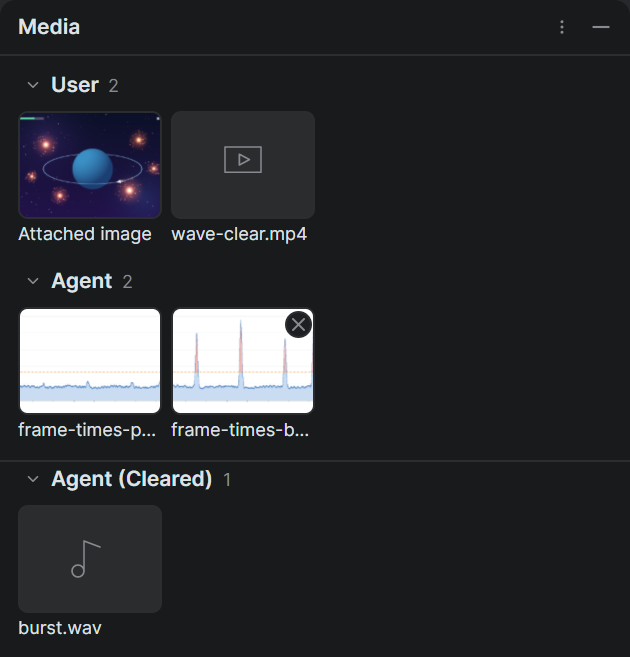
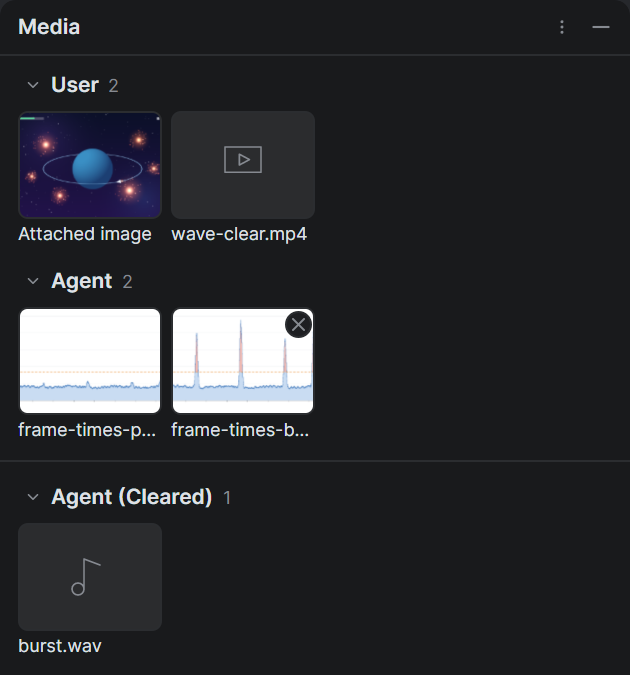
Clear or restore a whole Media section from its header's right-click menu, and give the Cleared groups as much room under the line as the sections leave over it

diff --git a/src/Deventry.App/Conversation/MediaGallery.cs b/src/Deventry.App/Conversation/MediaGallery.cs
@@ -154,6 +154,9 @@ public sealed partial class MediaSection : ObservableObject
     /// <summary>User and Agent always; a Cleared group once it has anything.</summary>
     public bool IsShown => !IsCleared || !IsEmpty;
 
+    /// <summary>Its header's menu: <b>Clear all</b>, or <b>Restore all</b> on a Cleared group's.</summary>
+    public string AllText => IsCleared ? "Restore all" : "Clear all";
+
     /// <summary>What it says while it has nothing.</summary>
     public string EmptyText { get; }
 
@@ -332,17 +335,46 @@ public sealed partial class MediaGallery : ObservableObject
     /// </summary>
     public void ToggleCleared(MediaEntry entry)
     {
+        if (Move(entry))
+        {
+            ClearedChanged?.Invoke();
+        }
+    }
+
+    /// <summary>
+    /// A section header's <b>Clear all</b>, or <b>Restore all</b> on a Cleared group's: everything in
+    /// <paramref name="section"/> to its Cleared group, or back, remembered with the tab once for them all.
+    /// </summary>
+    public void ToggleAll(MediaSection section)
+    {
+        var moved = false;
+        // Oldest first, so the newest are the last forgotten when there are more than the tab remembers.
+        foreach (var entry in section.Entries.Reverse().ToArray())
+        {
+            moved |= Move(entry);
+        }
+        if (moved)
+        {
+            ClearedChanged?.Invoke();
+        }
+    }
+
+    /// <summary>Moves <paramref name="entry"/> to its section's Cleared group, or back; false when it's no longer here.</summary>
+    private bool Move(MediaEntry entry)
+    {
         var from = entry.IsCleared ? ClearedOf(entry.Source) : SectionOf(entry.Source);
         if (!from.Contains(entry))
         {
-            return;
+            return false;
         }
         from.Remove(entry);
         entry.IsCleared = !entry.IsCleared;
         (entry.IsCleared ? ClearedOf(entry.Source) : SectionOf(entry.Source)).Put(entry);
         SetCleared(ClearedKey(entry.Source, entry.Key), entry.IsCleared);
+        return true;
     }
 
+    /// <summary>Remembers <paramref name="key"/> as cleared, or forgets it; the caller tells <see cref="ClearedChanged"/>.</summary>
     private void SetCleared(string key, bool cleared)
     {
         Cleared.RemoveAll(k => k == key);
@@ -354,7 +386,6 @@ public sealed partial class MediaGallery : ObservableObject
                 Cleared.RemoveRange(0, Cleared.Count - MostCleared);
             }
         }
-        ClearedChanged?.Invoke();
     }
 
     private static string ClearedKey(MediaSource source, string key) => (source == MediaSource.User ? "user:" : "agent:") + key;
@@ -499,6 +530,7 @@ public sealed partial class MediaGallery : ObservableObject
         if (isCleared && live)
         {
             SetCleared(key, false);
+            ClearedChanged?.Invoke();
             isCleared = false;
         }
         if (known is not null)

diff --git a/tests/Deventry.App.UiTests/MediaUiTests.cs b/tests/Deventry.App.UiTests/MediaUiTests.cs
@@ -1,4 +1,5 @@
 using System.Text.Json.Nodes;
+using Avalonia;
 using Avalonia.Automation;
 using Avalonia.Controls;
 using Avalonia.Headless.XUnit;
@@ -94,8 +95,13 @@ public class MediaUiTests
         clear.Command!.Execute(clear.CommandParameter);
         UiText.Settle(window);
 
-        // Under the line, in Agent (Cleared), folded.
+        // Under the line, in Agent (Cleared), folded, with as much room under the line as each section leaves under it.
         Assert.True(Divider(window).IsEffectivelyVisible);
+        var underLine = Divider(window).TranslatePoint(new Point(0, 1), window)!.Value.Y;
+        Assert.Equal(12, Header(window, "Expand Agent (Cleared)").TranslatePoint(default, window)!.Value.Y - underLine, 1);
+        // Its header's menu restores all it has, and User's clears all.
+        Assert.Equal("Restore all", HeaderMenuItem(window, Header(window, "Expand Agent (Cleared)")).Header);
+        Assert.Equal("Clear all", HeaderMenuItem(window, Header(window, "Collapse User")).Header);
         Assert.Equal(["Open Attached image"], Tiles(window).Select(AutomationProperties.GetName));
         Assert.False(Header(window, "Expand User (Cleared)", visible: false).IsEffectivelyVisible);
         Header(window, "Expand Agent (Cleared)").Command!.Execute(null);
@@ -113,6 +119,17 @@ public class MediaUiTests
 
     private static Button ClearButton(Window window, string name) =>
         window.GetVisualDescendants().OfType<Button>().Single(b => b.Classes.Contains("mediaclear") && b.IsEffectivelyVisible && AutomationProperties.GetName(b) == name);
+
+    /// <summary>The header's menu's one item, as it is open: a menu binds its items as it opens.</summary>
+    private static MenuItem HeaderMenuItem(Window window, Button header)
+    {
+        var menu = header.ContextMenu!;
+        menu.Open(header);
+        UiText.Settle(window);
+        var item = Assert.IsType<MenuItem>(Assert.Single(menu.Items));
+        menu.Close();
+        return item;
+    }
 
     private static Border Divider(Window window) =>
         window.GetVisualDescendants().OfType<Border>().Single(b => b.Classes.Contains("mediadivider"));

diff --git a/tests/Deventry.App.Tests/MediaTests.cs b/tests/Deventry.App.Tests/MediaTests.cs
@@ -237,6 +237,35 @@ public sealed class MediaTests
     }
 
     [Fact]
+    public async Task A_sections_header_clears_all_it_has_and_its_Cleared_groups_restores_all()
+    {
+        await using var h = new TabTestHarness();
+        var tab = await h.OpenTabAsync();
+        var plot = WriteFile(h, "out/plot.png", TestImages.Png);
+        h.Transport.Emit(Wire.Tool(null, "t1", "mcp__playwright__browser_take_screenshot", []));
+        h.Transport.Emit(ImageResult("t1", parent: null));
+        h.Transport.Emit(Wire.Tool(null, "t2", "Write", new JsonObject { ["file_path"] = plot, ["content"] = "" }));
+        h.Transport.Emit(Wire.Result("t2", "File created"));
+        await TabTestHarness.Eventually(() => tab.Media.Agent.Count == 2, "the screenshot and the plot");
+        var media = tab.Media;
+        var newestFirst = InlineDispatcher.Read(() => media.Agent.Entries.ToArray());
+        Assert.Equal(("Clear all", "Restore all"), (media.Agent.AllText, media.AgentCleared.AllText));
+
+        InlineDispatcher.Run(() => tab.ToggleMediaSectionCommand.Execute(media.Agent));
+
+        Assert.Empty(InlineDispatcher.Read(() => media.Agent.Entries.ToArray()));
+        Assert.Equal(newestFirst, InlineDispatcher.Read(() => media.AgentCleared.Entries.ToArray()));
+        Assert.All(newestFirst, e => Assert.True(e.IsCleared));
+        Assert.Equal(2, InlineDispatcher.Read(() => tab.State.ClearedMedia.Count));
+
+        InlineDispatcher.Run(() => tab.ToggleMediaSectionCommand.Execute(media.AgentCleared));
+
+        Assert.Equal(newestFirst, InlineDispatcher.Read(() => media.Agent.Entries.ToArray()));
+        Assert.Empty(InlineDispatcher.Read(() => media.AgentCleared.Entries.ToArray()));
+        Assert.Empty(InlineDispatcher.Read(() => tab.State.ClearedMedia.ToArray()));
+    }
+
+    [Fact]
     public async Task The_image_window_opened_from_a_tile_clears_it_and_restores_it()
     {
         await using var h = new TabTestHarness();

diff --git a/src/Deventry.App/ViewModels/TabViewModel.Media.cs b/src/Deventry.App/ViewModels/TabViewModel.Media.cs
@@ -89,6 +89,16 @@ public sealed partial class TabViewModel
         }
     }
 
+    /// <summary>A section header's <b>Clear all</b>, or <b>Restore all</b> on a Cleared group's.</summary>
+    [RelayCommand]
+    private void ToggleMediaSection(MediaSection? section)
+    {
+        if (section is not null)
+        {
+            Media.ToggleAll(section);
+        }
+    }
+
     [RelayCommand]
     private Task CopyMediaPathAsync(MediaEntry? entry) =>
         entry?.Path is { } path ? _services.Platform.SetClipboardTextAsync(path) : Task.CompletedTask;

diff --git a/CHANGELOG.md b/CHANGELOG.md
@@ -24,7 +24,7 @@ The format follows [Keep a Changelog](https://keepachangelog.com/en/1.1.0/), and
 
 - **Wrap lines in the Files tab's editor.** A text file in the Files tab has **Wrap lines** in the bar under the file tabs, and so does a Markdown file in **Edit** or **Edit and preview**: on, long lines wrap at the editor's width instead of running off to the side. Each file keeps its own, and it comes back with the file's tab when Deventry starts again. `Alt+Z` (`Option+Z`) and the command palette's **Wrap the file's lines** turn the same on and off, and Settings → Files and diffs → **Wrap long lines** is where a file starts until you do. See [Wrapping long lines](https://deventry.app/project-files/editing/#wrapping-long-lines).
 
-- **Every image, video and sound in a tab, in one place.** The **Media** window, on the strip of icons at the right once a conversation has any, gathers them into two sections you can fold: **User**, the images you attach and the files your messages name, and **Agent**, the images Claude's tools hand it (an image it read, a screenshot from a browser tool) and the image, video and sound files Claude and its subagents write, read, make with a command or name in a reply. Newest first, each once. Click one to open an image in Deventry's image window, or a video or a sound in the app your OS uses for it; right-click for **Show in conversation**, **Reveal in file manager** and **Copy path**. Clear one you're done with, with the **×** at its corner, its menu or the image window's **Clear**, and it moves under a line to **User (Cleared)** or **Agent (Cleared)**, folded, until you restore it or it comes up again; what's cleared stays cleared with the tab. See [Media](https://deventry.app/conversation/media/).
+- **Every image, video and sound in a tab, in one place.** The **Media** window, on the strip of icons at the right once a conversation has any, gathers them into two sections you can fold: **User**, the images you attach and the files your messages name, and **Agent**, the images Claude's tools hand it (an image it read, a screenshot from a browser tool) and the image, video and sound files Claude and its subagents write, read, make with a command or name in a reply. Newest first, each once. Click one to open an image in Deventry's image window, or a video or a sound in the app your OS uses for it; right-click for **Show in conversation**, **Reveal in file manager** and **Copy path**. Clear one you're done with, with the **×** at its corner, its menu or the image window's **Clear**, or a whole section with **Clear all** on its header's right-click menu, and it moves under a line to **User (Cleared)** or **Agent (Cleared)**, folded, until you restore it or it comes up again; what's cleared stays cleared with the tab. See [Media](https://deventry.app/conversation/media/).
 
 - **Your tabs from your phone, through a Telegram bot.** Make a bot with @BotFather, give Deventry its token in Settings → Remote clients → **Telegram**, and pair your Telegram account with **Pair an account…** by scanning a QR code. The bot tells you when a tab needs you or finishes, with the start of the reply and the files it changed; answers its prompts with a tap (**Allow**, **Deny**, a question's options, a plan's approvals); sends a message to a tab when you reply to one of its messages, or to the tab `/to` picks; stops Claude; and shows your tabs (`/tabs`) and usage (`/usage`). Deventry talks to the bot itself, so none of that costs tokens but what you send a tab. By default it sends messages only while you're away: Deventry not in front, the computer locked or asleep, or nobody at it for five minutes. Only the accounts you pair are answered, the bot's token stays in your computer's credential store, and Remote clients → **All clients** chooses how much it can do and tell Telegram. While it's on, an icon beside the header's cup says whether messages are going to your phone or waiting, lights up as one goes or comes, takes the warning color if the bot needs you, and has **Quiet for an hour** in its menu. See [Remote clients](https://deventry.app/away/remote-clients/).
 - **Your project's GitHub and YouTrack issues, in a Tickets tab.** A group whose folder's git remote is on GitHub has a **Tickets** button on its row, and any project can name its GitHub repositories and YouTrack projects in its settings' **Tickets** page. The tab lists the tickets, with a filter that takes the tracker's own search words, shows one with its comments, and **Work on it** starts a tab on it, or a tab in a worktree named for it, with the ticket in its message, ready for you to send. The tab is named after its ticket and goes back to it with **Open ticket**. Sign in to GitHub with a token, the GitHub CLI or Git Credential Manager, and to YouTrack with a token, in Settings → Tickets; tokens stay in your system's credential store. Turn on **Let Deventry change tickets** to comment, change a ticket's state or assign it to yourself from the tab. A project can have several sources, the GitHub repository from its git remote beside a YouTrack project, with **All sources** marking each ticket with its own; and the list's width is yours to drag.

diff --git a/DESIGN.md b/DESIGN.md
@@ -3884,8 +3884,8 @@ Claude names files as it works: *"`weapons.md` is written"*, *"see `docs/specs/w
 - **A click** opens it: an image in the image window ([Opening images](#opening-images)), whatever **Open images in** says, as a tool's image does (one Claude read shows what Claude saw, with **Open** for its file); a video, a sound, or an image the window can't show in the app the OS uses for it, as the decision on video has it ([Images from Claude's tools](#images-from-claudes-tools)).
 - **Its menu**, on a right-click: **Open**; for a file, **Open in the OS's app**, **Reveal in file manager** and **Copy path**; **Show in conversation**, which goes to the message, call or reply it came from, opening the subagent groups around it; and **Clear**, or **Restore** for one that's cleared. The tile stays outlined while its menu is open.
 - **Clearing.** Something the user is done with can be put out of the way without losing it.
-  - **Where.** A tile's **×**, round at its thumbnail's top-right as an attached image's is in the composer, there while the pointer is over the tile or it has the keyboard focus (Tab reaches it after the tile); its menu's **Clear**; and **Clear** in the image window's toolbar, when the image was opened from its tile.
-  - **What it does.** The tile moves to its section's Cleared group, **User (Cleared)** or **Agent (Cleared)**. They're under both sections, past a line across the window like the one under its header, each there once it has anything, folded to its header to start with, and folding as the others do. A cleared tile has an arrow at its corner instead of the **×**, and its menu and the image window say **Restore**, which puts it back in its place in its section.
+  - **Where.** A tile's **×**, round at its thumbnail's top-right as an attached image's is in the composer, there while the pointer is over the tile or it has the keyboard focus (Tab reaches it after the tile); its menu's **Clear**; and **Clear** in the image window's toolbar, when the image was opened from its tile. A section header's right-click menu has **Clear all**, and a Cleared group's **Restore all**, which move everything in it at once.
+  - **What it does.** The tile moves to its section's Cleared group, **User (Cleared)** or **Agent (Cleared)**. They're under both sections, past a line across the window like the one under its header, with as much room under the line as each section leaves under it, each there once it has anything, folded to its header to start with, and folding as the others do. A cleared tile has an arrow at its corner instead of the **×**, and its menu and the image window say **Restore**, which puts it back in its place in its section.
   - **Seen again.** Something cleared that the conversation brings again (a chart Claude makes again, the same screenshot) is back in its section, at the front, and no longer cleared.
   - **Kept with the tab**, as the key of each (its file, or its bytes) in its section, in `state.json`: a restored tab's gallery, read back from its transcript, has the same cleared. Everything read back came before it was cleared, since anything after would have restored it, so read back it stays cleared; only something seen live brings it back. A copy of the tab ([Rewind and branch](#rewind-and-branch)) keeps them. The last 1,000 are remembered.
 - **Kept in step.** It's built with the conversation, so a restored tab's gallery comes back with its transcript, and going back to an earlier message ([Rewind and branch](#rewind-and-branch)) leaves out what came after it. It doesn't outlive the tab.

diff --git a/GUIDE.md b/GUIDE.md
@@ -130,7 +130,7 @@ One page, out of the sidebar and linked from both footers and the privacy chapte
 | Exporting | **Export conversation…** to Markdown or a web page, and what's left out. | [Export](DESIGN.md#export) |
 | Rewind and branch | **Edit and resend…**, **Branch from here**, **Restore files to before this…** and **Keep copies of files Claude changes**, **Duplicate tab**. | [Rewind and branch](DESIGN.md#rewind-and-branch) |
 | Images | Images from Claude's tools, images in its replies and **Load image**, the image window (**Copy image**, **Save as…**, **Open**, **Pause** and **Play**, and zooming with the wheel, the keys and **Fit**); image files and links to images opening there, and Settings → Files and diffs → **Open images in**. | [Images from Claude's tools](DESIGN.md#images-from-claudes-tools), [Images in Claude's replies](DESIGN.md#images-in-claudes-replies), [Opening images](DESIGN.md#opening-images) |
-| Media | The **Media** window: when its icon shows and **Show media**; **User** and **Agent** and what goes in each; which files count and where they're looked for; the tiles, their order and folding a section; opening one, and its menu (**Open in the OS's app**, **Show in conversation**, **Clear** or **Restore**, **Reveal in file manager**, **Copy path**); clearing (a tile's **×** on hover and focus, **Clear** and **Restore** in the image window, the Cleared groups under a line and folded, coming back when seen again); what it keeps. | [Media](DESIGN.md#media) |
+| Media | The **Media** window: when its icon shows and **Show media**; **User** and **Agent** and what goes in each; which files count and where they're looked for; the tiles, their order and folding a section; opening one, and its menu (**Open in the OS's app**, **Show in conversation**, **Clear** or **Restore**, **Reveal in file manager**, **Copy path**); clearing (a tile's **×** on hover and focus, **Clear** and **Restore** in the image window, **Clear all** and **Restore all** on a section header's right-click, the Cleared groups under a line and folded, coming back when seen again); what it keeps. | [Media](DESIGN.md#media) |
 | Files and links in replies | Clicking a file, a line, a folder or a web link; several files with one name; a file that isn't there; what's never opened. | [Files named in Claude's replies](DESIGN.md#files-named-in-claudes-replies) |
 | The working line and running tasks | The line above the composer, **Show fun words while Claude works** and **Show what Claude is doing while it works**; the running tasks chip, its list and **Stop**. | [Working line](DESIGN.md#working-line), [Running tasks](DESIGN.md#running-tasks) |
 

diff --git a/docs/conversation/media.md b/docs/conversation/media.md
@@ -66,11 +66,11 @@ Right-click a tile for more:
 
 ## Clearing
 
-To put a tile out of the way without losing it, clear it: point at the tile and click the **×** at its thumbnail's corner, choose **Clear** from its right-click menu, or click **Clear** in the image window's toolbar when you opened the image from here. It moves to **User (Cleared)** or **Agent (Cleared)**, under a line below the two sections. Each Cleared group shows once it has anything, folded to its header; click the header to open it.
+To put a tile out of the way without losing it, clear it: point at the tile and click the **×** at its thumbnail's corner, choose **Clear** from its right-click menu, or click **Clear** in the image window's toolbar when you opened the image from here. It moves to **User (Cleared)** or **Agent (Cleared)**, under a line below the two sections. To clear a whole section at once, right-click its header and choose **Clear all**. Each Cleared group shows once it has anything, folded to its header; click the header to open it.
 
 {% include shot.html name="guide/conversation/media-cleared" alt="The Media tool window with burst.wav cleared: User with its 2 tiles, then Agent with 2, the frame-time charts, the second showing the X at its thumbnail's corner; under a line, Agent (Cleared), opened, with burst.wav's tile." %}
 
-A cleared tile has an arrow at its corner instead, and its menu and the image window say **Restore**: either puts it back where it was. Something you've cleared that comes up again, such as a chart Claude makes again or a screenshot taken again, is back in its section, at the front.
+A cleared tile has an arrow at its corner instead, and its menu and the image window say **Restore**: either puts it back where it was. A Cleared group's header has **Restore all** on its right-click menu. Something you've cleared that comes up again, such as a chart Claude makes again or a screenshot taken again, is back in its section, at the front.
 
 With the keyboard, Tab reaches a tile's **×** after the tile, and it shows while it has the focus.
 
